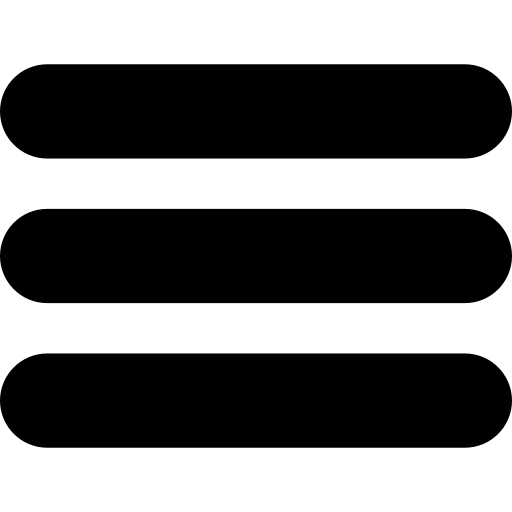
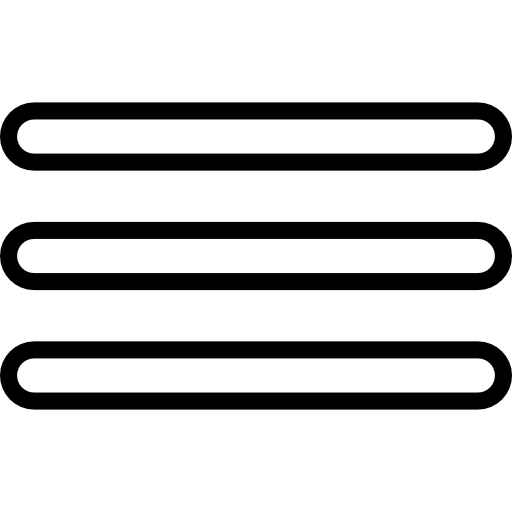
Dandole forma al main (retoques al header)

diff --git a/Proyecto final/index.html b/Proyecto final/index.html
@@ -6,6 +6,7 @@
     <meta name="viewport" content="width=device-width, initial-scale=1.0">
     <title>Seguridad e Hiegene</title>
     <link rel="stylesheet" href="style.css">
+    <link rel="stylesheet" href="main.css">
     <link rel="stylesheet" href="navstyles.css">
     <link rel="preconnect" href="https://fonts.googleapis.com">
 <link rel="preconnect" href="https://fonts.gstatic.com" crossorigin>
@@ -19,7 +20,7 @@
         <nav class="header__nav">
 
         <a href="#" class="header__image--container">
-            <img src= "../Proyecto final/Imagenes/seguridad-en-el-trabajo.png" alt="Logotipo" class="header__img">
+            <img src= "../Proyecto final/Imagenes/foto principal.jpg" alt="Logotipo" class="header__img">
         
 
         <div class="header__titulo">
@@ -32,7 +33,7 @@
  
 
     <button class="open__menu" label="Abrir menu">
-       <img class="open__menu-img" src="../Proyecto final/Imagenes/menu.png" alt="abrir menu">
+       <img class="open__menu-img" src="../Proyecto final/Imagenes/menu.svg" alt="abrir menu">
     </button>
 
 
@@ -44,8 +45,8 @@
      
         <li><a href="#profile">Perfil</a></li>
         <li><a href="#experience">Experiencia</a></li>
-        <li><a href="#skills">Habilidades</a></li>
-        <li><a href="#contact">Contactos</a></li>
+        <li><a href="#skills">Trabajos</a></li>
+        <li><a href="#contact">Contacto</a></li>
     </ul>
 
 </nav>
@@ -53,9 +54,39 @@
     </header>
 
 
+   <main>
 
 
-    <main></main>
+    <section class="main__exchange-container"> 
+
+   <div class="image-container">
+<img class="main__exchange-img" src="../Proyecto final/Imagenes main/autoelevador.jpg" alt="foto-en-altura"/> 
+   </div>
+
+   <div class="main__exchange-formulario">
+
+       <div class="main__exchange-texto">
+       <h1>Contactanos</h1>
+       </div>
+
+       <input class="controles" type="text" name="nombre" id="nombre" placeholder="Nombre y Apellido">
+       <input class="controles" type="email" name="Correo electronico" id="Correo electronico" placeholder="Correo electronico">
+       <input class="controles" type="text" name="Telefono" id="Telefono" placeholder="Telefono">
+       <input class="controles" type="text" name="Ayuda" id="Ayuda" placeholder="¿En que te podemos ayudar?">
+       <input class="controles" type="submit" value="Enviar" id="Enviar">
+   </div>
+
+<div>
+
+</div>
+
+</section>
+
+<section>
+
+</section>
+
+   </main>
 
 
     <footer></footer>

diff --git a/Proyecto final/style.css b/Proyecto final/style.css
@@ -4,6 +4,8 @@
     --Rojo: #E80B39;
     --blanco: white;
     --Gris: #595b5f;
+    --azul: #2A17B4;
+    --celeste: #4B9EF2;
 }
 
 *{
@@ -25,7 +27,7 @@ a {
 header {
     
     width: 100%;
-    background-color: var(--Negro);
+    
    display: flex;
    justify-content: space-between;
    
@@ -40,7 +42,7 @@ justify-content: space-between;
 margin: 0 auto;
 max-width: 1500px;
 position: fixed;
-background-color: var(--Negro);
+background-color: var(--azul);
 height: 160px;
 
 /* ese top y left es por recomendacion, para que no se 
@@ -51,29 +53,27 @@ modifique el nav cuando agregemos contenido en el main */
     display: flex;
     align-items: center;
     margin: 0 auto;
+cursor: pointer;
 }
 
 .header__img {
-height: 150px;
+height: 160px;
 }
 
-.header__titulo {
+.header__titulo h1 {
     color: var(--blanco);
-   
-}
-
-h1 {
     margin-top: 15px;
     height: 40px;
     font-size: 18px;
+    margin-left: 15px;
 }
 
 /* menu */
 
 .header__menu {
     display: flex;
-list-style: none;
-margin: 0 auto;
+    list-style: none;
+    margin: 0 auto;
 }
 
 .header__menu li {
@@ -114,6 +114,9 @@ button {
         
     }
 
+    .header__titulo {
+        cursor: pointer;
+    }
 
     .header__menu li {
         margin-top: 35px;
@@ -146,4 +149,10 @@ button {
     opacity: 1;
 }
 
-}
+.open__menu-img {
+color: var(--blanco);
+ }
+
+
+
+} 

diff --git a/Proyecto final/main.css b/Proyecto final/main.css
@@ -1,0 +1,21 @@
+.main__exchange-img {
+    margin-top: 160px;
+    width: 100%;
+}
+
+.main__exchange-formulario {
+    display: flex;
+    flex-direction: column;
+}
+
+.main__exchange-texto {
+    background-color: var(--celeste);
+    color: var(--blanco);
+    height: 40px;
+    font-size: 15px;
+}
+
+.main__exchange-texto h1 {
+    padding: 4px;
+}
+
